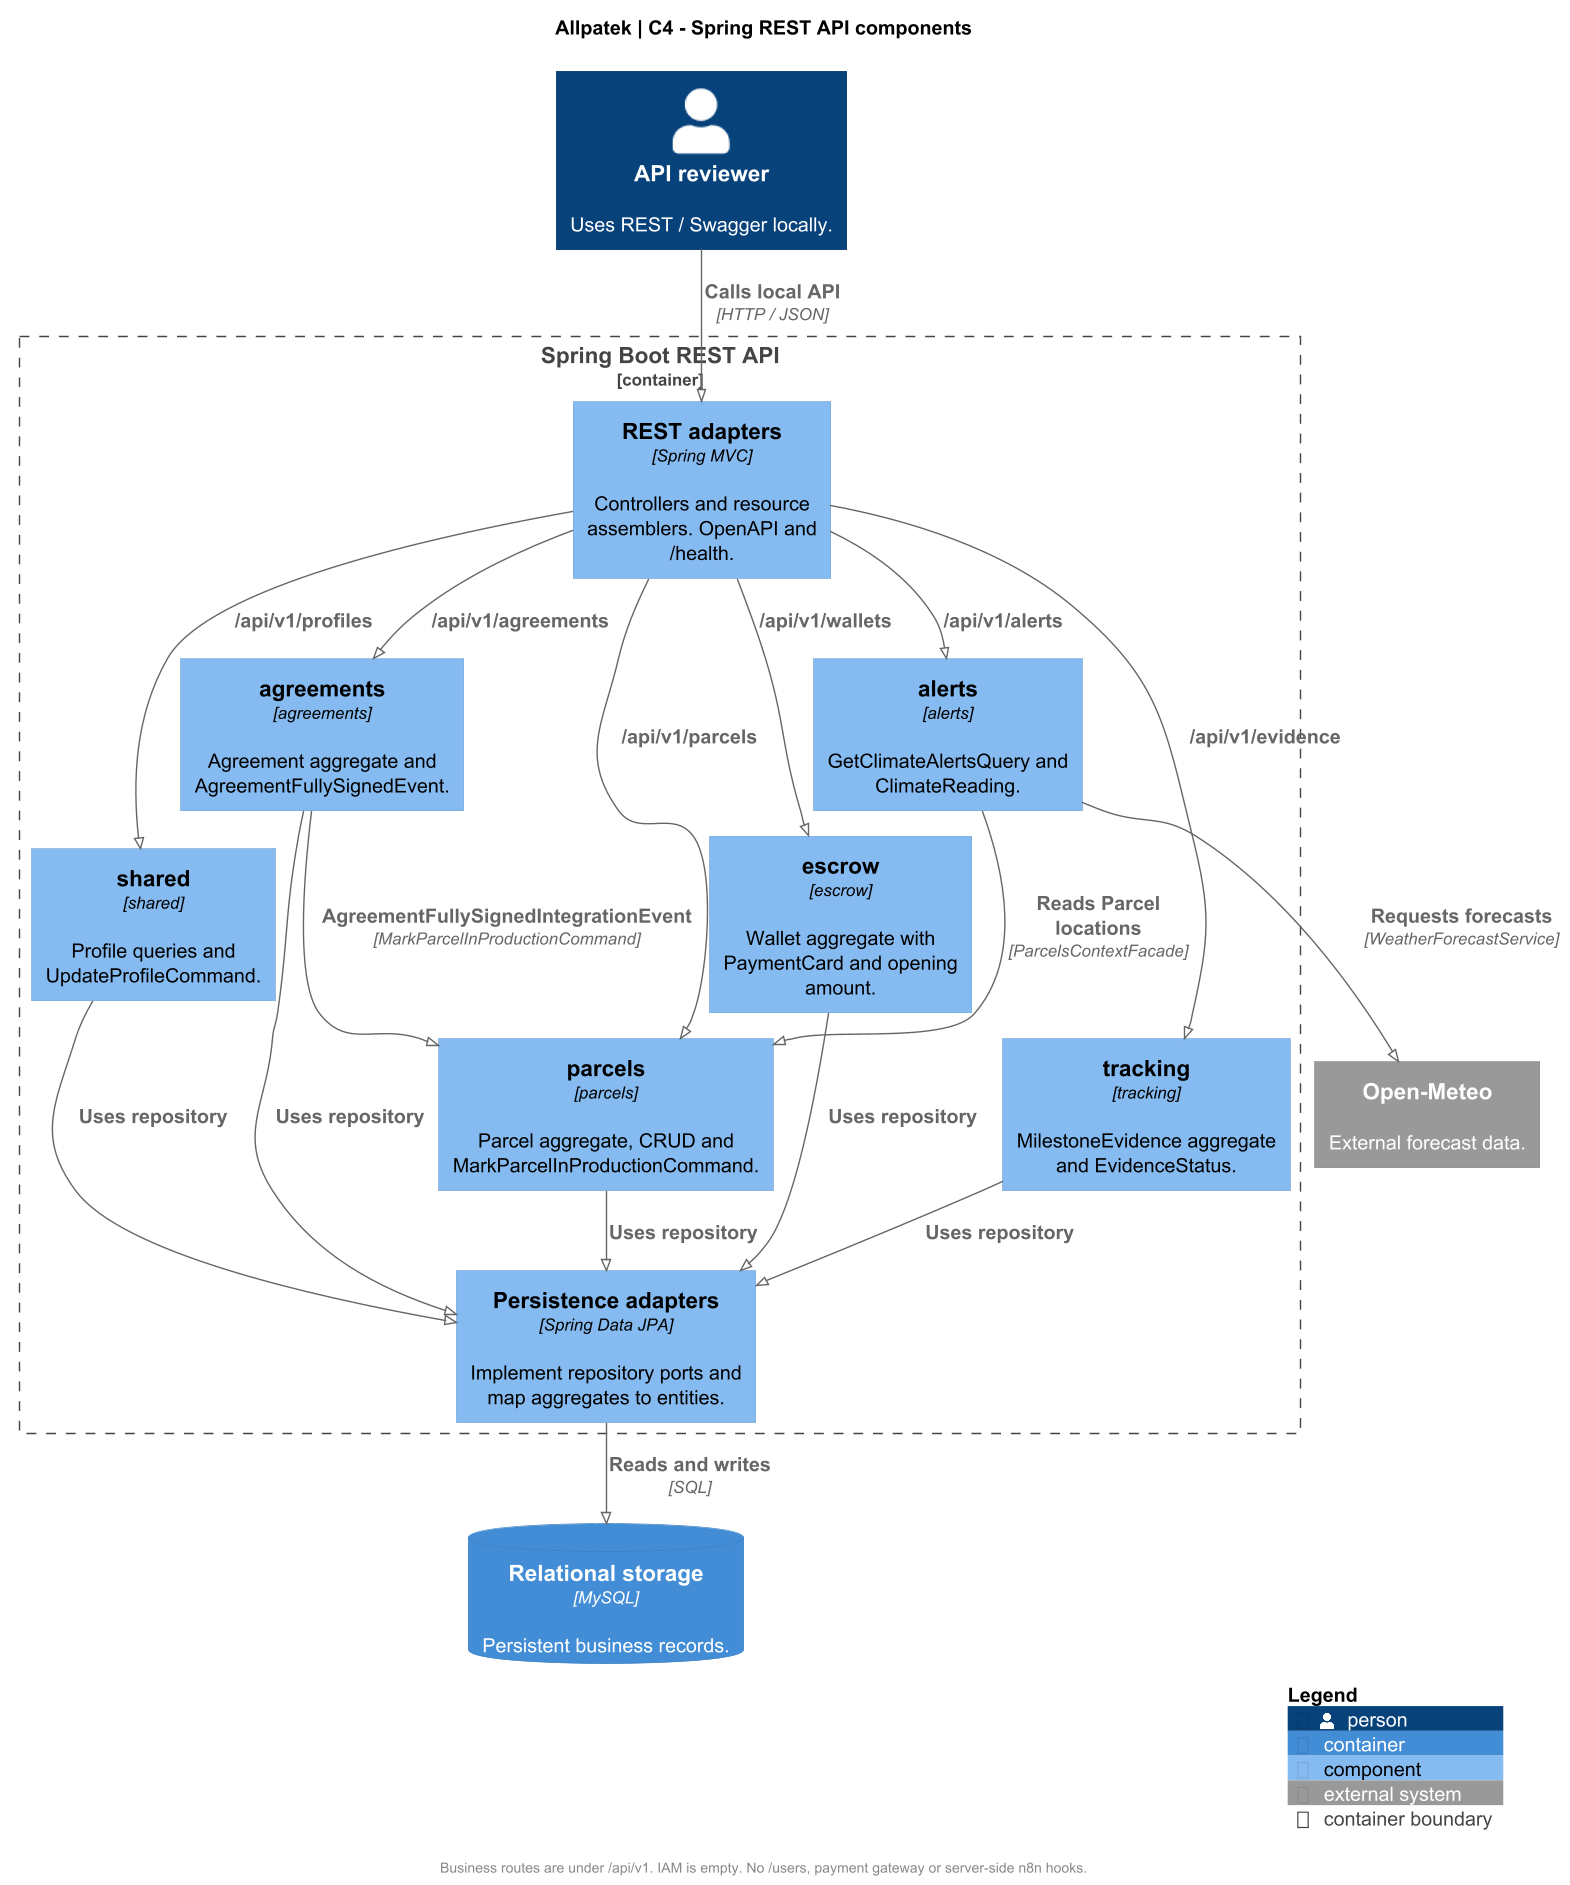
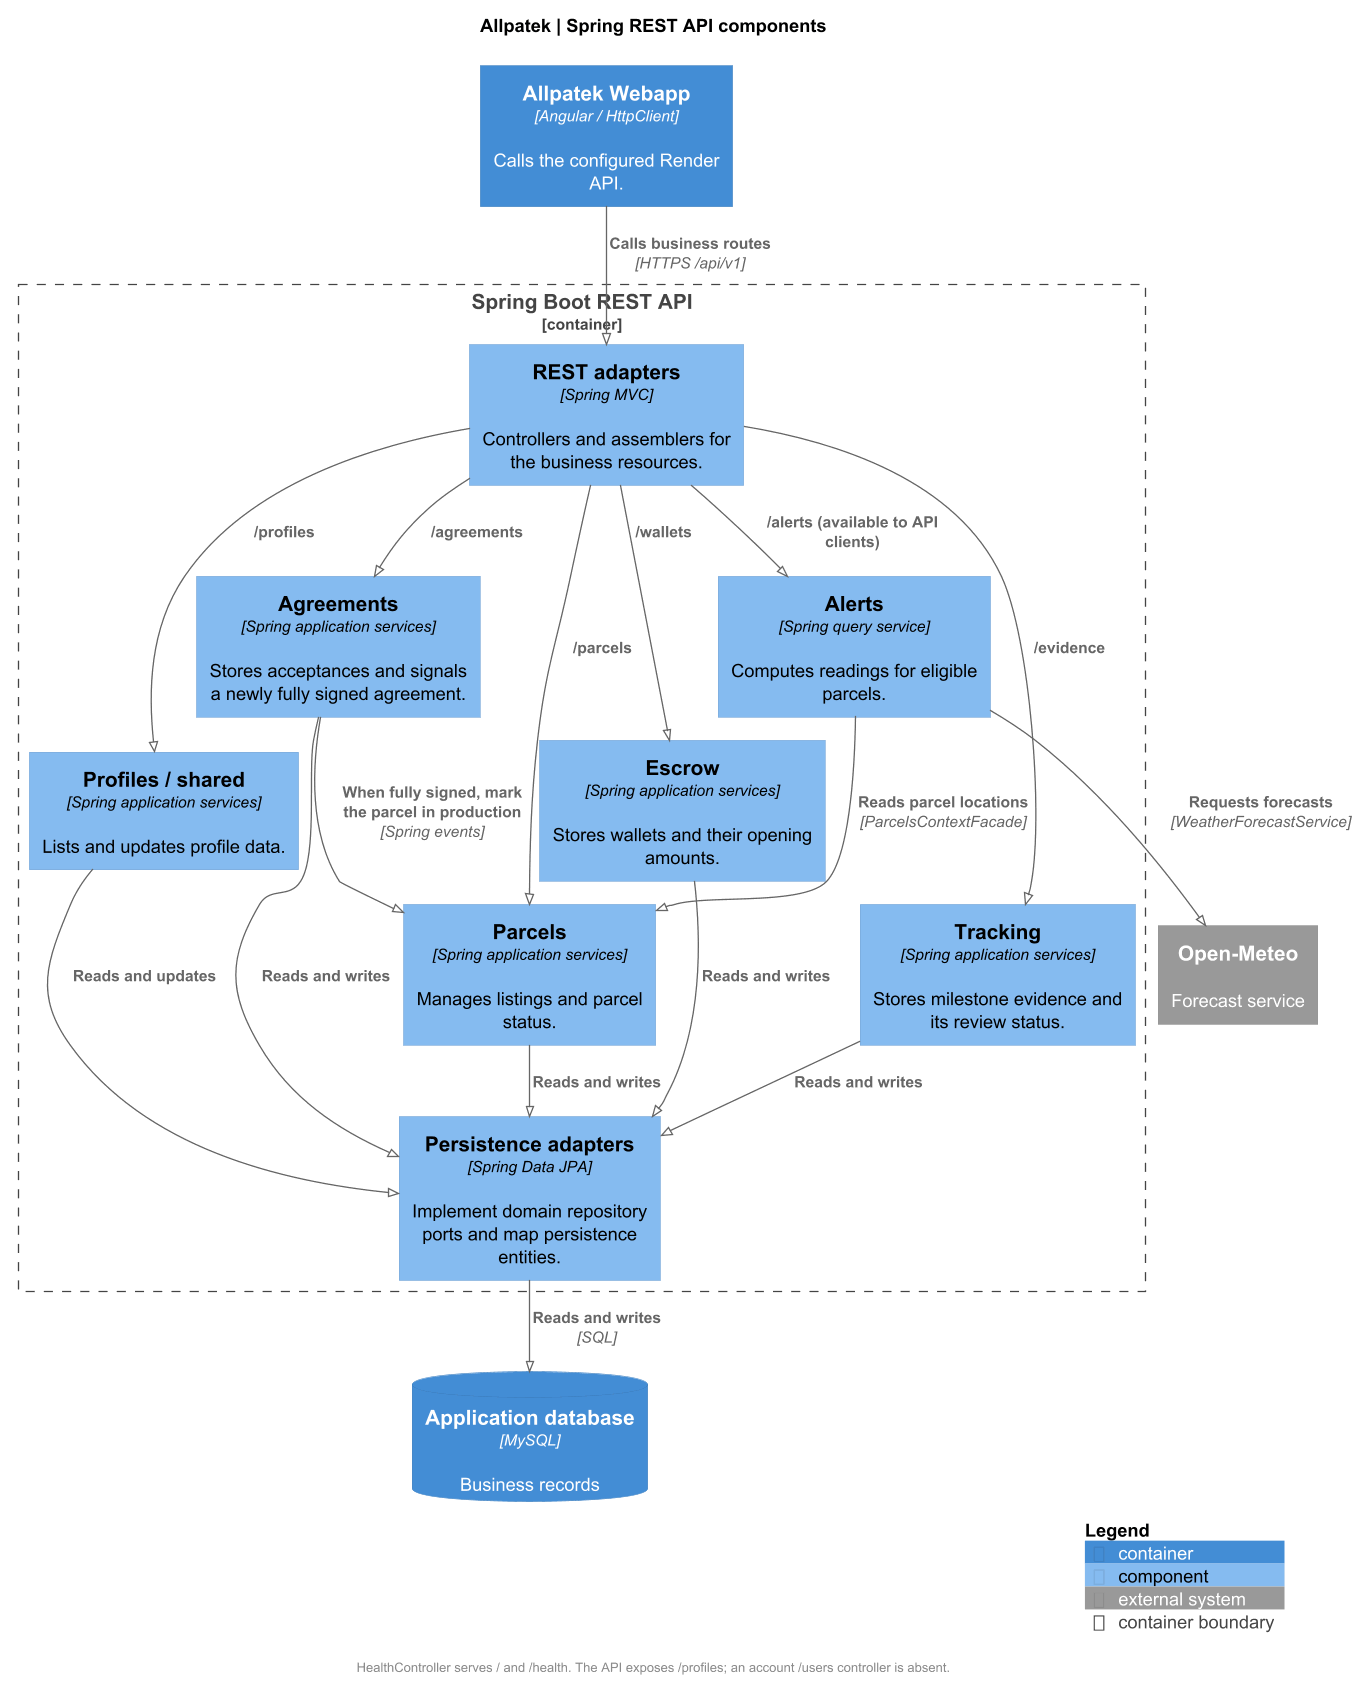
docs(c4): map Spring modules and cross-context collaborations

Changed region(s): [[0.0, 0.0, 0.9875, 0.896], [0.7715, 0.896, 0.9566, 0.9887], [0.2469, 0.9887, 0.7098, 1.0]]

diff --git a/README.md b/README.md
@@ -2107,11 +2107,11 @@ Cada recuadro dentro del límite de Allpatek representa una unidad que se puede 
 
 ### 4.6.4. Software Architecture Components Diagrams
 
-**API Java.** Los controladores REST convierten los recursos HTTP en comandos o consultas. Los paquetes coinciden con el código: parcels, agreements, escrow, tracking, alerts y shared. Tras AgreementFullySignedEvent, AgreementFullySignedIntegrationEvent dispara MarkParcelInProductionCommand. Clima consulta parcelas mediante ParcelsContextFacade y delega el pronóstico al adaptador Open-Meteo. No hay una conexión que ejecute un desembolso al cambiar una evidencia.
+**API Java.** Los controladores REST reciben solicitudes y las delegan a los servicios de cada contexto. Los adaptadores JPA guardan sus resultados. Dos interacciones cruzan límites de negocio: Acuerdos notifica a Parcelas al completarse ambas aceptaciones y Clima consulta las ubicaciones de las parcelas. La ruta `/health` permite consultar el estado del servicio.
 
-![Figura 4.6.4-A. Componentes de la API Spring](assets/chapter-04/architecture/04-api-components.png)
+![Figura 4.6.4-A. Componentes y colaboraciones de la API Spring](assets/chapter-04/architecture/04-api-components.png)
 
-*Figura 4.6.4-A. Componentes de la API Spring.* <a href="assets/chapter-04/architecture/04-api-components.puml" style="text-decoration: none;">Fuente PlantUML</a> · <a href="assets/chapter-04/architecture/04-api-components.svg" style="text-decoration: none;">SVG</a>.
+*Figura 4.6.4-A. Componentes y colaboraciones de la API Spring.* [Ampliar en SVG](assets/chapter-04/architecture/04-api-components.svg) · [Fuente PlantUML](assets/chapter-04/architecture/04-api-components.puml).
 
 **Aplicación web.** Las rutas (/parcels, /agreements, /evidence, /escrow, /alerts, /profile) coinciden con los módulos parcel-management, agreements-management, tracking-evidence, escrow-payments, alerts-management y shared. /users existe solo en el mock de Angular. La selección de rol y los guardas operan en el cliente.
 
